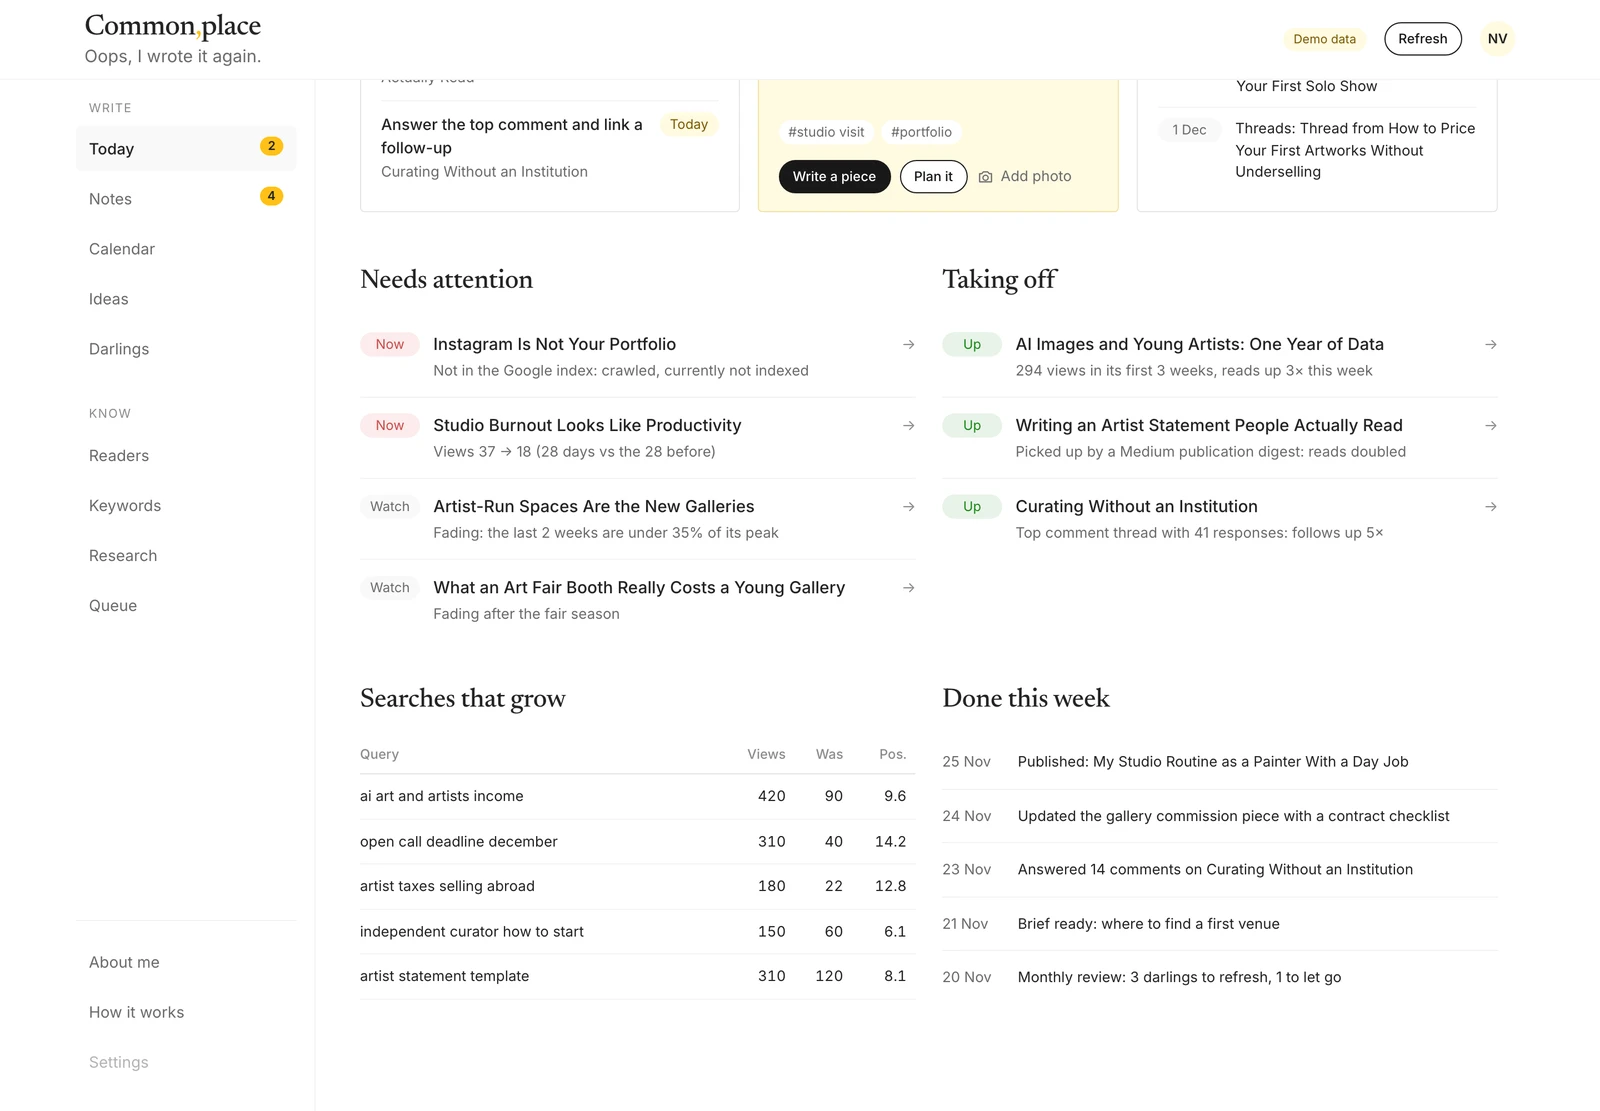
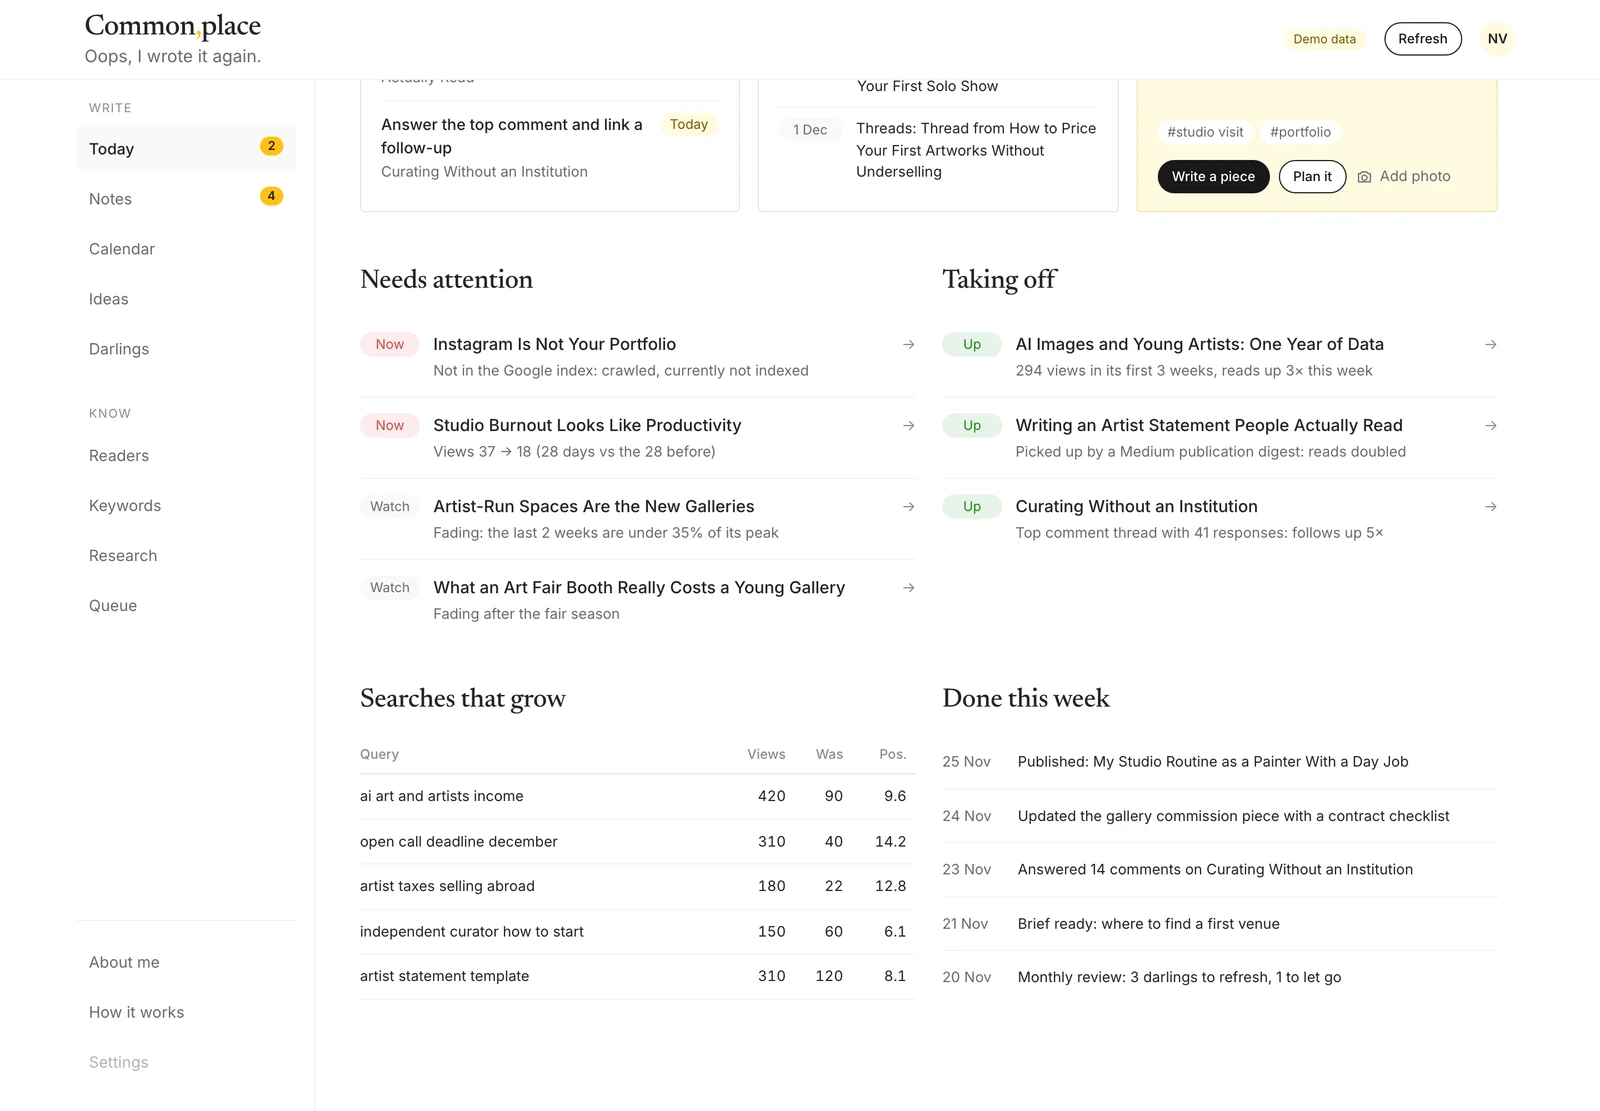
Today: calendar back in the middle, latest note on the right; screens re-shot

Changed region(s): [[0.4688, 0.0612, 0.9375, 0.2142]]

diff --git a/index.html b/index.html
@@ -384,7 +384,7 @@ function vToday(){
    ${photoOf(n)?`<img class="nphoto" src="${photoOf(n)}" alt="Photo from this note">`:''}<p class="qnote">“${esc(n.text)}”</p><div class="tags" style="display:flex;gap:6px;flex-wrap:wrap;margin-bottom:14px">${(n.tags||[]).map(x=>`<span class="pill" style="background:#fff">#${esc(x)}</span>`).join('')}</div>
    <div style="display:flex;gap:8px;flex-wrap:wrap"><button class="btn sm" data-write-note="${esc(n.id)}">Write a piece</button><button class="btn sm o" data-plan-note="${esc(n.id)}">Plan it</button>${photoOf(n)?'':`<button class="link photo-btn" data-add-photo="${esc(n.id)}">${CAM}Add photo</button>`}</div></div>`:'';
   h+=`<input type="file" id="pfile" accept="image/*" hidden>`;
-  h+=`<div class="top3">${c1}${c3}${c2}</div>`;
+  h+=`<div class="top3">${c1}${c2}${c3}</div>`;
   h+=`<div class="cols"><div><div class="head"><h2>Needs attention</h2></div><div class="list">${capped('att',hi,4,a=>`<button class="row" data-open="${esc(a.slug)}"><span class="pill ${a.level==='high'?'r':''}">${a.level==='high'?'Now':'Watch'}</span><div class="g"><div class="t">${esc(art(a.slug).title)}</div><div class="m">${esc(a.text)}</div></div><span class="arrow">→</span></button>`)}</div></div>
    <div><div class="head"><h2>Taking off</h2></div><div class="list">${win.map(a=>`<button class="row" data-open="${esc(a.slug)}"><span class="pill g">Up</span><div class="g"><div class="t">${esc(art(a.slug).title)}</div><div class="m">${esc(a.text)}</div></div><span class="arrow">→</span></button>`).join('')}</div></div></div>`;
   h+=`<div class="cols"><div><div class="head"><h2>Searches that grow</h2></div><div class="tw"><table><tr><th>Query</th><th class="n">Views</th><th class="n">Was</th><th class="n">Pos.</th></tr>${D.rising_queries.map(q=>`<tr><td>${esc(q.query)}</td><td class="n">${q.impr}</td><td class="n">${q.prev}</td><td class="n">${q.pos}</td></tr>`).join('')}</table></div></div>
